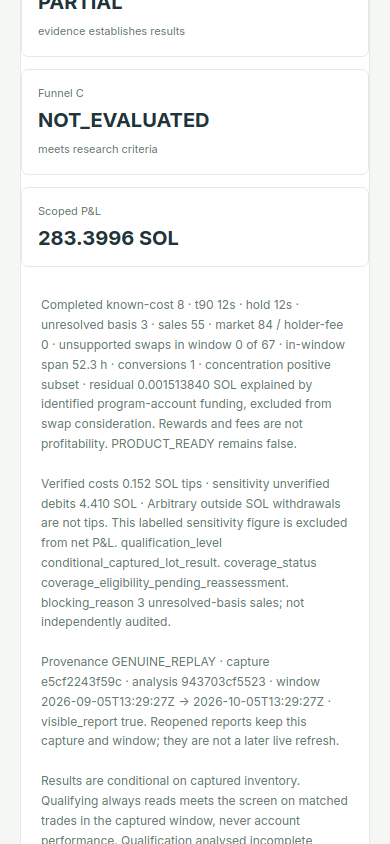
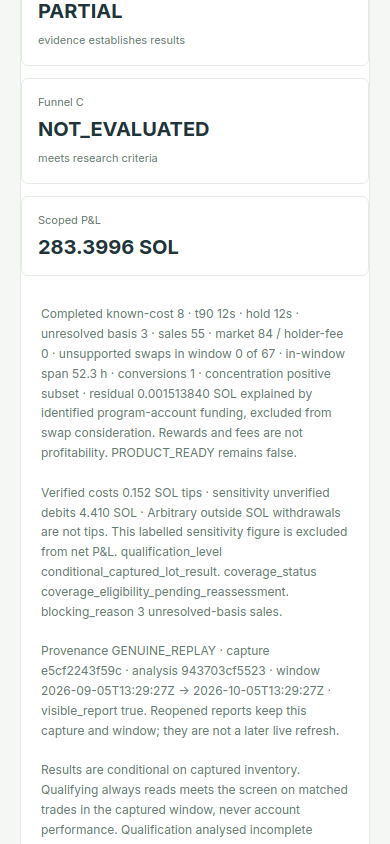
Record 3653-test suite, build, and recaptured phone screenshots.
Keys unset and dummy keys both pass. npm run build is unchanged
index-Bj4UsG-X.js. Phone 390x844 recapture after independently_audited
status landed; A6PS scoped net stays 283.3996 SOL.

Changed region(s): [[0.0923, 0.3389, 0.8923, 1.0], [0.0923, 0.0, 0.9231, 0.3081]]

diff --git a/evidence/mass-wallet-funnel/research-search-b-2026-10-06/TESTS.md b/evidence/mass-wallet-funnel/research-search-b-2026-10-06/TESTS.md
@@ -1,9 +1,9 @@
-# Offline suite at the phone-UI evidence commit (cloud agent, 2026-10-06)
+# Offline suite at the independent-audit reconciliation commit (cloud agent, 2026-10-06)
 
-App SHA `d961824` plus this screenshots/TESTS commit. Bundle `frontend/dist/assets/index-Bj4UsG-X.js`.
+App SHA of this evidence commit. Bundle `frontend/dist/assets/index-Bj4UsG-X.js`.
 
-- Keys unset (`env -u HELIUS_API_KEY -u BIRDEYE_API_KEY -u HELIUS_KEY .venv/bin/python -m pytest -q`): **3647 passed**, 440 subtests, 0 failed, 1 warning (9 min 1 s). EXIT 0.
-- Keys set (`HELIUS_API_KEY=dummy-helius-not-live BIRDEYE_API_KEY=dummy-birdeye-not-live HELIUS_KEY=dummy-helius-not-live .venv/bin/python -m pytest -q`): **3647 passed**, 440 subtests, 0 failed, 1 warning (8 min 51 s). EXIT 0.
+- Keys unset (`env -u HELIUS_API_KEY -u BIRDEYE_API_KEY -u HELIUS_API_KEYS .venv/bin/python -m pytest -q`): **3653 passed**, 440 subtests, 0 failed, 1 warning (9 min 1 s). EXIT 0.
+- Keys set (`HELIUS_API_KEY=dummy-helius-never-dispatch BIRDEYE_API_KEY=dummy-birdeye-never-dispatch .venv/bin/python -m pytest -q`): **3653 passed**, 440 subtests, 0 failed, 1 warning (9 min 6 s). EXIT 0.
 - `npm run build`: `tsc -b && vite build` OK; bundle `frontend/dist/assets/index-Bj4UsG-X.js`.
 - Phone-sized emulation 390×844: no page errors; unauthenticated `/api/state` = **401**. Shots in `screenshots/phone-0*.png`.
 - No Helius or Birdeye calls. Dummy keys were never sent.
@@ -12,6 +12,12 @@ App SHA `d961824` plus this screenshots/TESTS commit. Bundle `frontend/dist/asse
 Named regressions:
 
 - `tests/test_mitch_review_2026_10_06.py`
+  - `test_a6ps_75gg_buy_consideration_is_swap_quote_not_wallet_delta`
+  - `test_a6ps_2rss_close_is_meteora_damm_v2_from_raw_bytes`
+  - `test_gtfo_2af7_same_slot_order_closes_missing_episode`
+  - `test_58pw_sales_are_rfq_fill_and_jupiter_usdc`
+  - `test_labelled_wallets_are_independently_audited_in_committed_json`
+  - `test_cccs_scoped_net_bridge_matches_debit_audit`
   - `test_item11_sensitivity_sign_flip_cannot_be_provisional_research_lead`
   - `test_item11_label_tables_cannot_disagree`
   - `test_committed_wallet_table_matches_label_function`

diff --git a/evidence/mass-wallet-funnel/research-search-b-2026-10-06/RESULT.md b/evidence/mass-wallet-funnel/research-search-b-2026-10-06/RESULT.md
@@ -140,8 +140,8 @@ gtfo fee-audit totals: network 5.107533156 / verified tips 3.328280298 (Jito + o
 
 ## Suite / build on this exact commit
 
-- Keys unset: **3647 passed**, 440 subtests, EXIT 0 (9 min 1 s)
-- Keys set (dummy, never dispatched): **3647 passed**, 440 subtests, EXIT 0 (8 min 51 s)
+- Keys unset: **3653 passed**, 440 subtests, EXIT 0 (9 min 1 s)
+- Keys set (dummy, never dispatched): **3653 passed**, 440 subtests, EXIT 0 (9 min 6 s)
 - `npm run build`: `tsc -b && vite build` OK; bundle `frontend/dist/assets/index-Bj4UsG-X.js`
 - Phone-sized emulation 390×844: no page errors; unauthenticated `/api/state` = 401
 - Screenshot paths: `evidence/mass-wallet-funnel/research-search-b-2026-10-06/screenshots/phone-01-ranked-list.png`, `phone-02-research-screen-qualification-levels.png`, `phone-03-report-CccS.png`, `phone-04-report-CccS-detail.png`, `phone-03-report-A6PS.png`, `phone-04-report-A6PS-detail.png`, `phone-05-compare.png`
